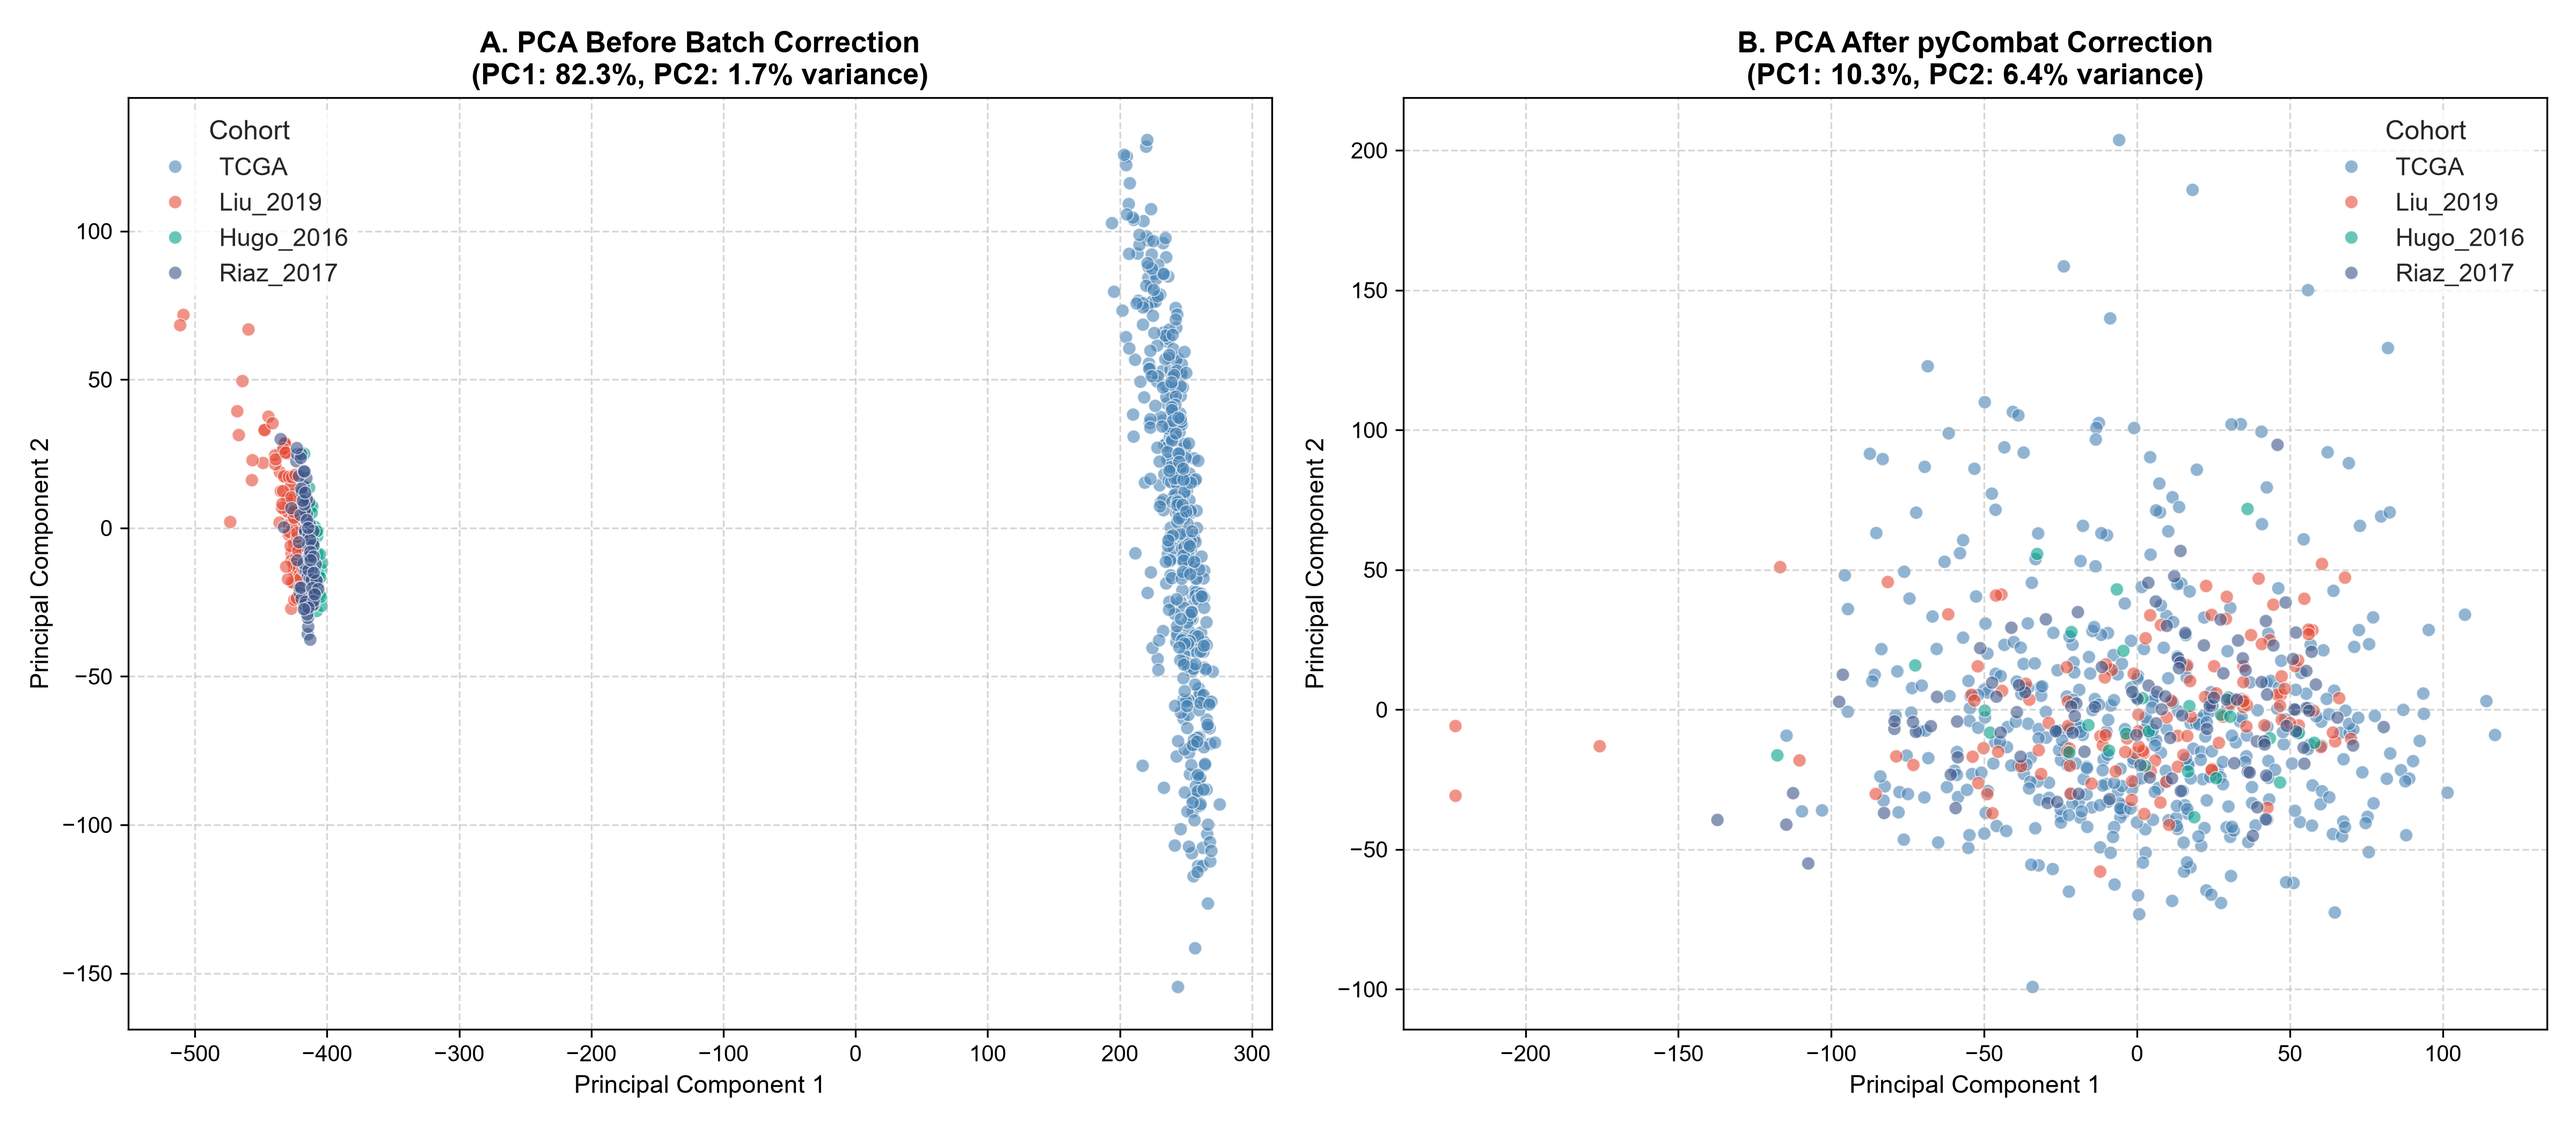
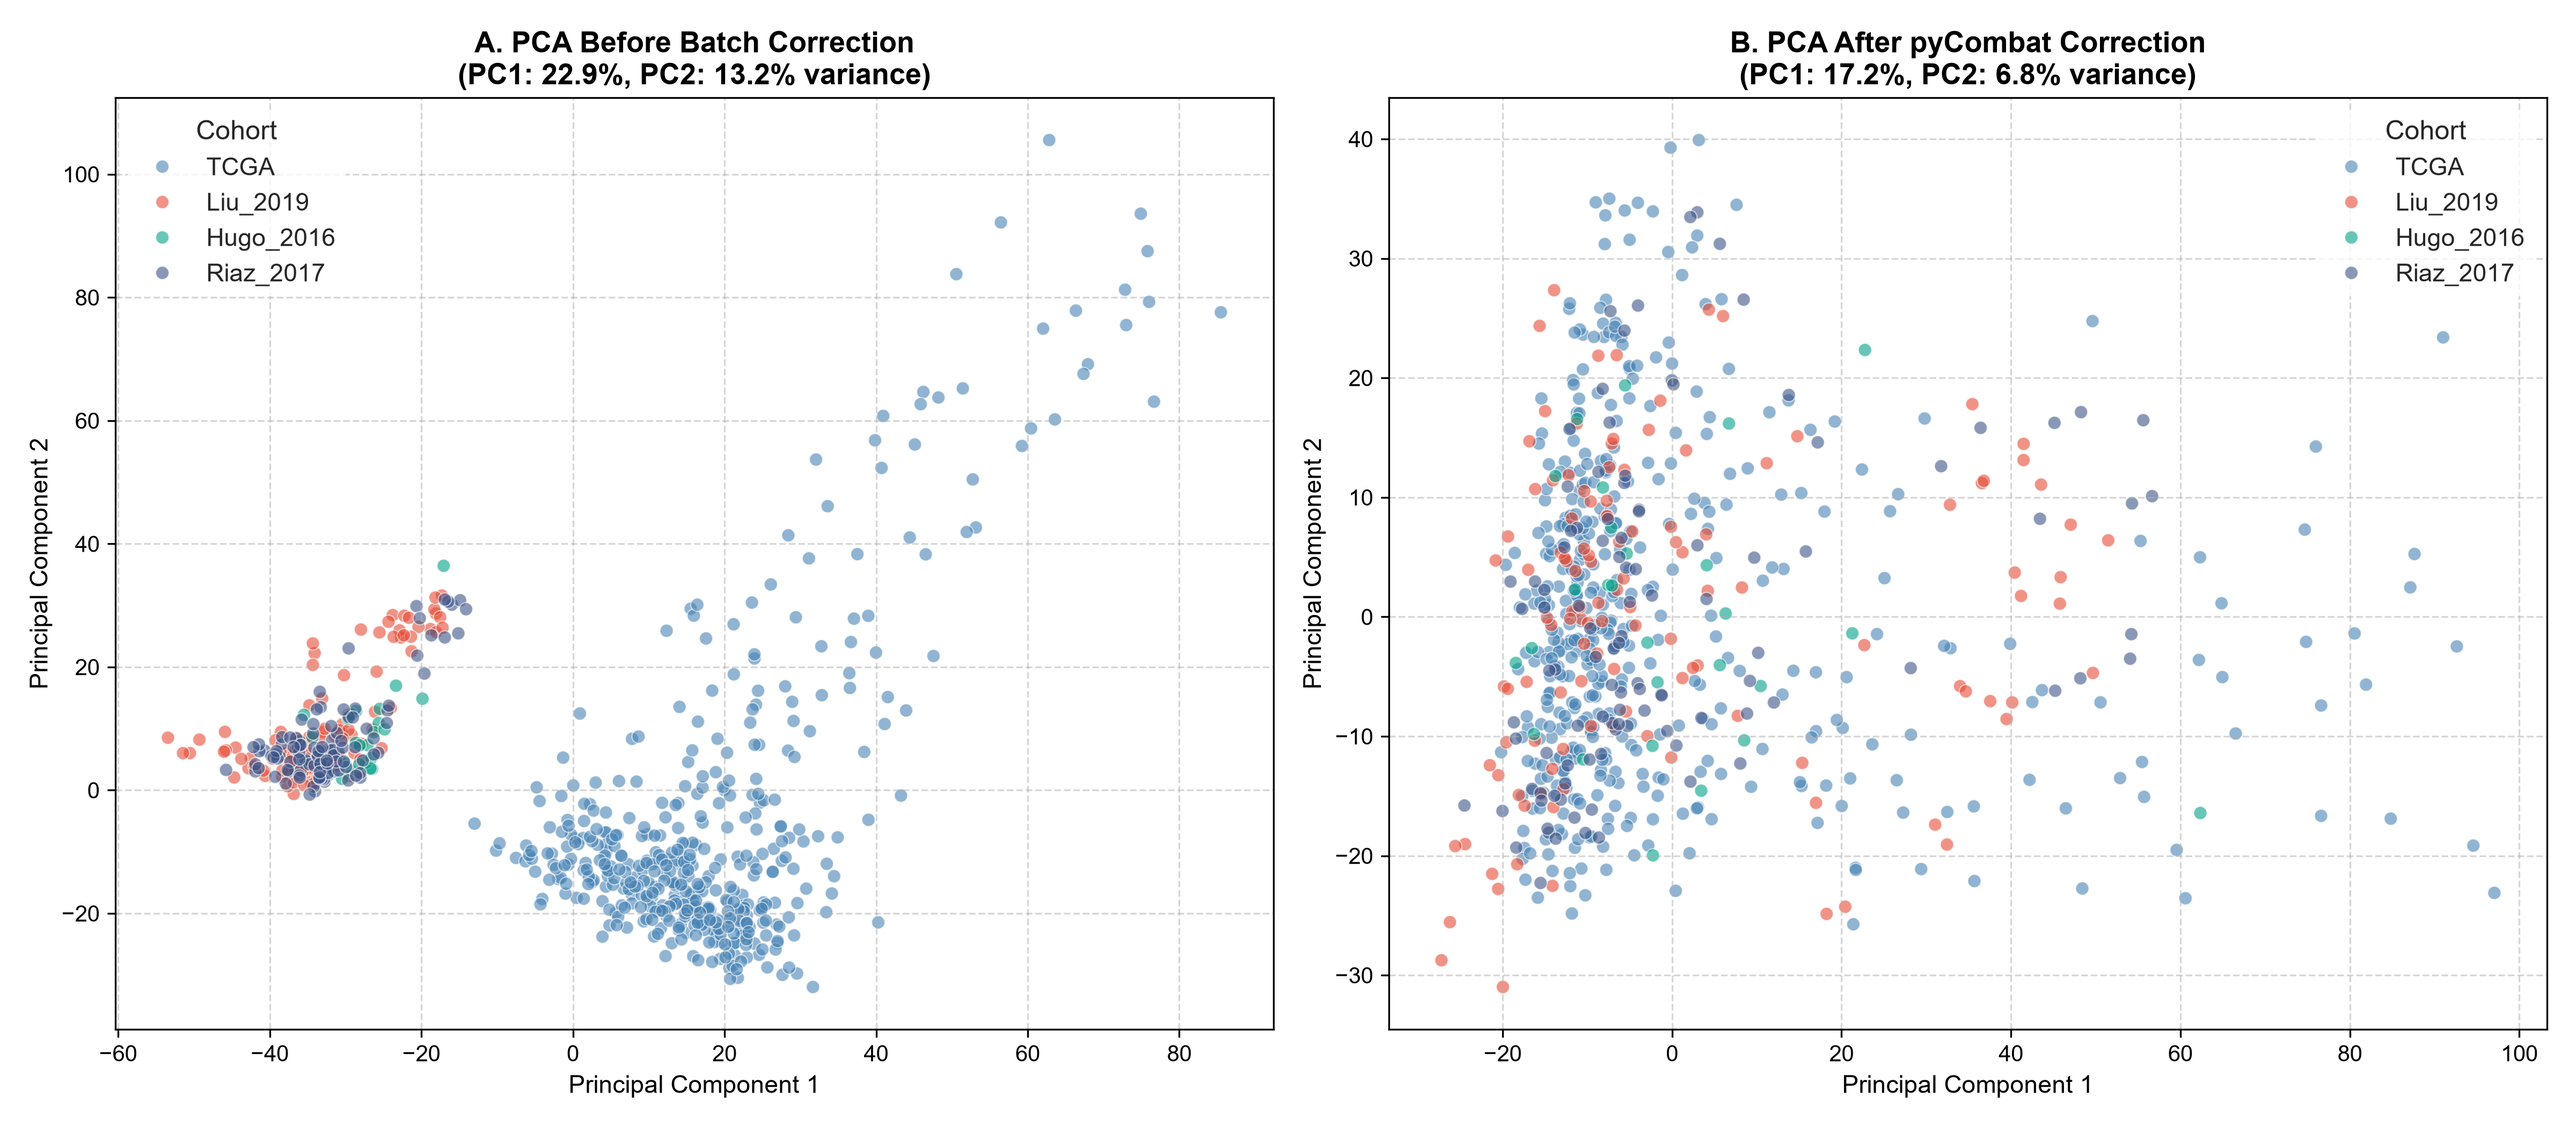
refactor(preprocessing): restrict cleaned expression matrices to top ~3,000 variance genes and simplify downstream pipeline filters

diff --git a/q1-response-predictor/clean_data.py b/q1-response-predictor/clean_data.py
@@ -36,6 +36,41 @@ RESPONSE_MAP = {
     "Mixed Response": np.nan,
 }
 
+# Set of critical signature and driver genes to protect from variance filtering
+PROTECTED_GENES = {
+    # IMPRES genes
+    "CD274", "VSIR", "C10orf54", "VISTA", "CD28", "CD276", "CD86", "TNFRSF4", "CD200", 
+    "CTLA4", "PDCD1", "CD80", "TNFSF9", "HAVCR2", "CD27", "CD40", "TNFRSF14",
+    # IFN-gamma genes
+    "IFNG", "CXCL9", "CXCL10", "IDO1", "HLA-DRA", "STAT1",
+    # TIS genes
+    "CCL5", "CD2", "CD3D", "CD3E", "CD27", "CMKLR1", "CXCR6", "GZMB", "GZMK", "HLA-DQA1", "HLA-E", 
+    "LAG3", "NKG7", "PDCD1LG2", "PSMB10", "TIGIT",
+    # CYT genes
+    "GZMA", "PRF1",
+    # CD8 T-cell genes
+    "CD8A", "CD8B",
+    # Pathway/driver mutation genes
+    "B2M", "TAP1", "TAP2", "JAK1", "JAK2", "PTEN", "CDKN2A", "PIK3CA", "BRAF", "NRAS", "NF1"
+}
+
+
+def filter_top_variance_genes(df, protected_genes, top_n=3000):
+    """
+    Keep only the top N highest-variance genes, protecting critical signature/driver genes.
+    """
+    variances = df.var()
+    sorted_genes = variances.sort_values(ascending=False).index.tolist()
+    
+    keep_genes = set(sorted_genes[:top_n])
+    for g in protected_genes:
+        if g in df.columns:
+            keep_genes.add(g)
+            
+    ordered_keep = [g for g in sorted_genes if g in keep_genes]
+    return df[ordered_keep]
+
+
 
 def parse_cbioportal_expression(expr_file_path: Path) -> pd.DataFrame:
     """
@@ -170,6 +205,9 @@ def clean_iatlas_cohort(
 
     # Log-transform expression
     df_expr = np.log2(df_expr + 1)
+
+    # Filter to top ~3,000 highest-variance genes
+    df_expr = filter_top_variance_genes(df_expr, PROTECTED_GENES, top_n=3000)
 
     # Align mutation status to final sample IDs and save
     df_mut_final = df_mut_final.loc[df_clin.index]
@@ -362,6 +400,11 @@ def clean_tcga_skcm() -> None:
     # Apply log2(x + 1) transformation directly to the gene expression columns
     gene_cols = [c for c in cleaned_rnaseq_df.columns if c != "SAMPLE_ID"]
     cleaned_rnaseq_df[gene_cols] = np.log2(cleaned_rnaseq_df[gene_cols] + 1)
+    
+    # Filter to top ~3,000 highest-variance genes
+    df_expr_data = cleaned_rnaseq_df.set_index("SAMPLE_ID")
+    df_expr_data = filter_top_variance_genes(df_expr_data, PROTECTED_GENES, top_n=3000)
+    cleaned_rnaseq_df = df_expr_data.reset_index()
 
     # Drop constant, redundant, and administrative columns
     cols_to_drop = [

diff --git a/q1-response-predictor/src/run_transcriptomic_feature_selection.py b/q1-response-predictor/src/run_transcriptomic_feature_selection.py
@@ -121,15 +121,9 @@ def main():
     
     print(f"Aligned dataset shape: {df_expr_log.shape[0]} samples, {df_expr_log.shape[1]} genes")
     
-    # 2. Filter gene space
-    # Drop genes with extremely low expression or variance to prevent noise and convergence failures
-    print("Filtering gene space...")
-    gene_vars = df_expr_log.var()
     gene_means = df_expr_log.mean()
-    
-    # Keep genes with variance in the top 15% (approx 3,000 genes) and mean log2 expression >= 1.0
-    var_cutoff = gene_vars.quantile(0.85)
-    filtered_genes = gene_vars[(gene_vars >= var_cutoff) & (gene_means >= 1.0)].index.tolist()
+    # Keep all pre-filtered high-variance genes (since the input matrix is already restricted to top ~3,000 variance genes) with mean expression >= 1.0
+    filtered_genes = gene_means[gene_means >= 1.0].index.tolist()
     print(f"Filtered gene space from {df_expr_log.shape[1]} down to {len(filtered_genes)} genes.")
     
     # 3. Univariate Cox Proportional Hazards Regression (Parallelized)

diff --git a/q1-response-predictor/run_pipeline.py b/q1-response-predictor/run_pipeline.py
@@ -249,14 +249,8 @@ def main():
         df_tcga_expr_raw = pd.read_csv(tcga_dir / "expr_cleaned.csv", index_col=0)
         df_tcga_clin = pd.read_csv(tcga_dir / "clin_cleaned.csv", index_col=0)
         
-        print("Using pre-log-transformed TCGA values, filtering genes by variance...")
-        df_tcga_log = df_tcga_expr_raw
-        variances = df_tcga_log.var()
-        # Keep top 15% high-variance genes (approx 3000 genes)
-        var_cutoff = variances.quantile(0.85)
-        high_var_symbols = variances[variances >= var_cutoff].index.tolist()
-        df_tcga_expr_filtered = df_tcga_log[high_var_symbols]
-        print(f"Kept {len(high_var_symbols)} high-variance genes out of {df_tcga_expr_raw.shape[1]}")
+        print("Using pre-log-transformed, pre-filtered TCGA values...")
+        df_tcga_expr_filtered = df_tcga_expr_raw
         
         # Keep common genes
         tcga_common_genes = df_tcga_expr_filtered.columns.intersection(common_genes)
